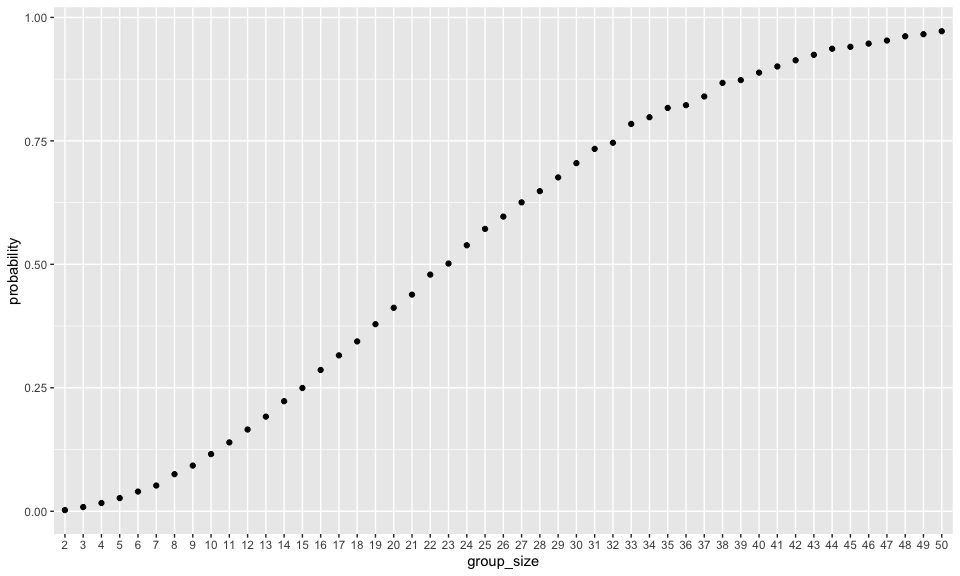
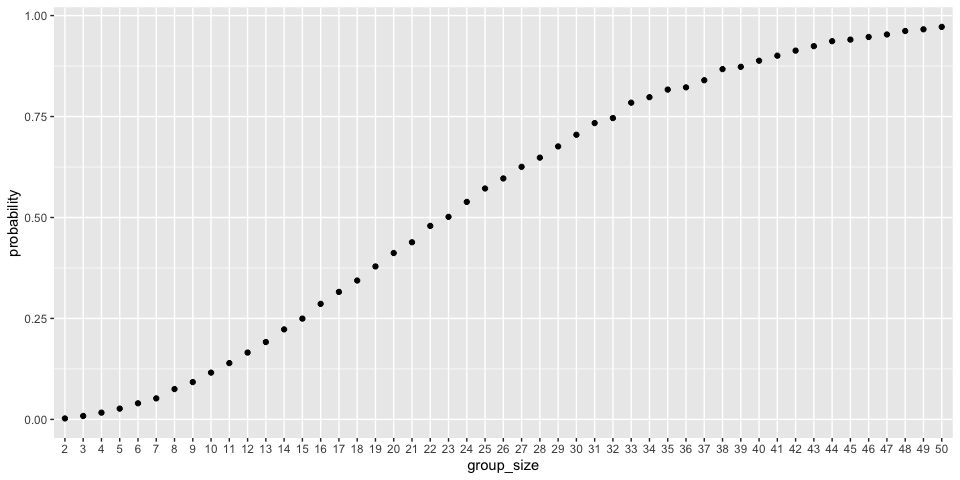
finished!

diff --git a/p8105_hw5_yl5839.md b/p8105_hw5_yl5839.md
@@ -5,11 +5,6 @@ Yuying Lu
 
 ``` r
 library(tidyverse)
-knitr::opts_chunk$set(
-  fig.width = 6,
-  fig.asp = .6,
-  out.width = "90%"
-)
 
 theme_set(theme(legend.position = "bottom"))
 
@@ -60,7 +55,7 @@ sim_results_df |>
   geom_line()
 ```
 
-<img src="p8105_hw5_yl5839_files/figure-gfm/unnamed-chunk-3-1.png" width="90%" />
+![](p8105_hw5_yl5839_files/figure-gfm/unnamed-chunk-3-1.png)<!-- -->
 
 **Comment:** According to the picture based on the 10000 times
 simulation, we can see the probability that at least two people in the
@@ -135,20 +130,21 @@ new_norm_df |>
   mutate(reject = p.value < 0.05) |> 
   group_by(mu_true) |> 
   summarise(reject_proportion = mean(reject)) |> 
-  ggplot(aes(x = mu_true, y = reject_proportion))+
-  geom_point()+
-  geom_line()+
-  xlab(expression(mu))+
+  ggplot(aes(x = mu_true, y = reject_proportion)) +
+  geom_point() +
+  geom_line() +
+  theme_minimal(base_size = 15) +
+  xlab(expression(mu)) +
   scale_x_continuous(breaks = 1:6)
 ```
 
-<img src="p8105_hw5_yl5839_files/figure-gfm/unnamed-chunk-6-1.png" width="90%" />
+![](p8105_hw5_yl5839_files/figure-gfm/unnamed-chunk-6-1.png)<!-- -->
 
 **Association:** When $\mu \in \{1,...,6\}$, a larger $\mu$ has a higher
-reject proportion.
+reject proportion and it converges to 1.
 
-Showing average $\mu$ and the average $\mu$ when null was rejected. v.s.
-true $\mu$
+Showing average $\hat{\mu}$ and the average $\hat{\mu}$ when null was
+rejected. v.s. true $\mu$
 
 ``` r
 new_norm_df |> 
@@ -162,15 +158,17 @@ new_norm_df |>
     values_to = "hat_mu"
   ) |> 
   ggplot(aes(x = mu_true, y = hat_mu, color = type))+
-  geom_point(alpha = 0.5)+
-  geom_abline()+
-  xlab(expression(mu))+
-  ylab(expression(hat(mu)))+
-  scale_x_continuous(breaks = 1:6)+
-  scale_y_continuous(breaks = 1:6)
+  geom_point(alpha = 0.75) +
+  geom_abline(linetype = "dashed", size = .5, color = 'lightgrey') +
+  theme_minimal() +
+  xlab(expression(mu)) +
+  ylab(expression(hat(mu))) +
+  scale_x_continuous(breaks = 1:6) +
+  scale_y_continuous(breaks = 1:6) +
+  theme(legend.position = "bottom")
 ```
 
-<img src="p8105_hw5_yl5839_files/figure-gfm/unnamed-chunk-7-1.png" width="90%" />
+![](p8105_hw5_yl5839_files/figure-gfm/unnamed-chunk-7-1.png)<!-- -->
 
 From the plot, the sample average of $\hat{\mu}$ across tests for which
 the null is rejected isn’t approximately equal to the true value of
@@ -211,28 +209,147 @@ homi_df
     ## # ℹ 6 more variables: victim_sex <chr>, city <chr>, state <chr>, lat <dbl>,
     ## #   lon <dbl>, disposition <chr>
 
-Q: Describe the raw data
+The raw data gathers homicides in 50 larges U.S. cities, containing
+52179 rows and 12 columns. Each row represents a case of homicide
+including its uid, reported date, information of the victim (first and
+last name, race, age, sex), city and state where the homicide took
+place, the latitude and longitude of this place, and the disposition of
+this case.
 
 ### Data Wrangling
 
 ``` r
-homi_df |> 
-  mutate(city_state = paste0(city, ', ', state))
+summary_df = 
+  homi_df |> 
+  mutate(city_state = paste0(city, ', ', state)) |> 
+  group_by(city_state) |> 
+  summarise(
+    total_num = n(),
+    unsolved_num = sum(disposition %in% c("Closed without arrest", "Open/No arrest"))
+  )
+summary_df
 ```
 
-    ## # A tibble: 52,179 × 13
-    ##    uid        reported_date victim_last  victim_first victim_race victim_age
-    ##    <chr>              <dbl> <chr>        <chr>        <chr>       <chr>     
-    ##  1 Alb-000001      20100504 GARCIA       JUAN         Hispanic    78        
-    ##  2 Alb-000002      20100216 MONTOYA      CAMERON      Hispanic    17        
-    ##  3 Alb-000003      20100601 SATTERFIELD  VIVIANA      White       15        
-    ##  4 Alb-000004      20100101 MENDIOLA     CARLOS       Hispanic    32        
-    ##  5 Alb-000005      20100102 MULA         VIVIAN       White       72        
-    ##  6 Alb-000006      20100126 BOOK         GERALDINE    White       91        
-    ##  7 Alb-000007      20100127 MALDONADO    DAVID        Hispanic    52        
-    ##  8 Alb-000008      20100127 MALDONADO    CONNIE       Hispanic    52        
-    ##  9 Alb-000009      20100130 MARTIN-LEYVA GUSTAVO      White       56        
-    ## 10 Alb-000010      20100210 HERRERA      ISRAEL       Hispanic    43        
-    ## # ℹ 52,169 more rows
-    ## # ℹ 7 more variables: victim_sex <chr>, city <chr>, state <chr>, lat <dbl>,
-    ## #   lon <dbl>, disposition <chr>, city_state <chr>
+    ## # A tibble: 51 × 3
+    ##    city_state      total_num unsolved_num
+    ##    <chr>               <int>        <int>
+    ##  1 Albuquerque, NM       378          146
+    ##  2 Atlanta, GA           973          373
+    ##  3 Baltimore, MD        2827         1825
+    ##  4 Baton Rouge, LA       424          196
+    ##  5 Birmingham, AL        800          347
+    ##  6 Boston, MA            614          310
+    ##  7 Buffalo, NY           521          319
+    ##  8 Charlotte, NC         687          206
+    ##  9 Chicago, IL          5535         4073
+    ## 10 Cincinnati, OH        694          309
+    ## # ℹ 41 more rows
+
+### `prop,test` for city of Baltimore, MD
+
+``` r
+baltimore_df = 
+  summary_df |> 
+  filter(city_state == "Baltimore, MD") 
+
+prop_test_output = 
+  prop.test(baltimore_df$unsolved_num, baltimore_df$total_num)
+
+tidy_df = 
+  prop_test_output |> 
+  broom::tidy() 
+
+tidy_df |> 
+  select(estimate, conf.low, conf.high)
+```
+
+    ## # A tibble: 1 × 3
+    ##   estimate conf.low conf.high
+    ##      <dbl>    <dbl>     <dbl>
+    ## 1    0.646    0.628     0.663
+
+The estimate proportion of unsolved homicides is 0.6455607, and its
+confidence interval is \[0.6275625, 0.6631599\].
+
+### `prop,test` for all cities
+
+``` r
+prop_test_all = 
+  summary_df |> 
+  mutate(
+    prop_test = map2(unsolved_num, total_num, \(un_n, n) prop.test(un_n, n)),
+    prop_test = map(prop_test, broom::tidy)
+    ) |> 
+  unnest(prop_test) 
+
+prop_test_all
+```
+
+    ## # A tibble: 51 × 11
+    ##    city_state      total_num unsolved_num estimate statistic   p.value parameter
+    ##    <chr>               <int>        <int>    <dbl>     <dbl>     <dbl>     <int>
+    ##  1 Albuquerque, NM       378          146    0.386   19.1    1.23e-  5         1
+    ##  2 Atlanta, GA           973          373    0.383   52.5    4.32e- 13         1
+    ##  3 Baltimore, MD        2827         1825    0.646  239.     6.46e- 54         1
+    ##  4 Baton Rouge, LA       424          196    0.462    2.27   1.32e-  1         1
+    ##  5 Birmingham, AL        800          347    0.434   13.8    2.05e-  4         1
+    ##  6 Boston, MA            614          310    0.505    0.0407 8.40e-  1         1
+    ##  7 Buffalo, NY           521          319    0.612   25.8    3.73e-  7         1
+    ##  8 Charlotte, NC         687          206    0.300  109.     1.41e- 25         1
+    ##  9 Chicago, IL          5535         4073    0.736 1231.     1.28e-269         1
+    ## 10 Cincinnati, OH        694          309    0.445    8.11   4.41e-  3         1
+    ## # ℹ 41 more rows
+    ## # ℹ 4 more variables: conf.low <dbl>, conf.high <dbl>, method <chr>,
+    ## #   alternative <chr>
+
+``` r
+prop_test_all|> 
+  mutate(
+    CI = paste0("[", round(conf.low,4),", ",round(conf.high,4),"]"),
+    estimate = round(estimate,4)
+  ) |> 
+  select(city_state, estimate, CI)
+```
+
+    ## # A tibble: 51 × 3
+    ##    city_state      estimate CI              
+    ##    <chr>              <dbl> <chr>           
+    ##  1 Albuquerque, NM    0.386 [0.3373, 0.4376]
+    ##  2 Atlanta, GA        0.383 [0.3528, 0.4148]
+    ##  3 Baltimore, MD      0.646 [0.6276, 0.6632]
+    ##  4 Baton Rouge, LA    0.462 [0.4142, 0.511] 
+    ##  5 Birmingham, AL     0.434 [0.3992, 0.469] 
+    ##  6 Boston, MA         0.505 [0.4646, 0.5451]
+    ##  7 Buffalo, NY        0.612 [0.5688, 0.6541]
+    ##  8 Charlotte, NC      0.300 [0.2661, 0.3359]
+    ##  9 Chicago, IL        0.736 [0.724, 0.7474] 
+    ## 10 Cincinnati, OH     0.445 [0.408, 0.4831] 
+    ## # ℹ 41 more rows
+
+Make the plot for the prop.test result:
+
+``` r
+prop_test_all |> 
+  ggplot(aes(x = reorder(city_state, estimate), y = estimate)) +
+  geom_point(size = 2, color = "#DF6604") +
+  geom_errorbar(aes(ymin = conf.low, ymax = conf.high), width = 0.3, color = "darkgray", size = 0.8) +
+  coord_flip() +
+  labs(
+    title = "Proportion of Unsolved Homicides by City",
+    x = "City",
+    y = "Proportion of Unsolved Homicides"
+  ) +
+  theme_minimal() + 
+  theme(
+    plot.title = element_text(hjust = 0.5, face = "bold", size = 18),  
+    axis.title.x = element_text(size = 14, face = "bold"),  
+    axis.title.y = element_text(size = 14, face = "bold"),  
+    axis.text.x = element_text(size = 12, color = "black"), 
+    axis.text.y = element_text(size = 12, color = "black"), 
+    panel.grid.major = element_line(color = "lightgray", size = 0.5),  
+    panel.grid.minor = element_blank()  
+  ) +
+  scale_y_continuous(labels = scales::percent_format(accuracy = 1))  
+```
+
+![](p8105_hw5_yl5839_files/figure-gfm/unnamed-chunk-12-1.png)<!-- -->
